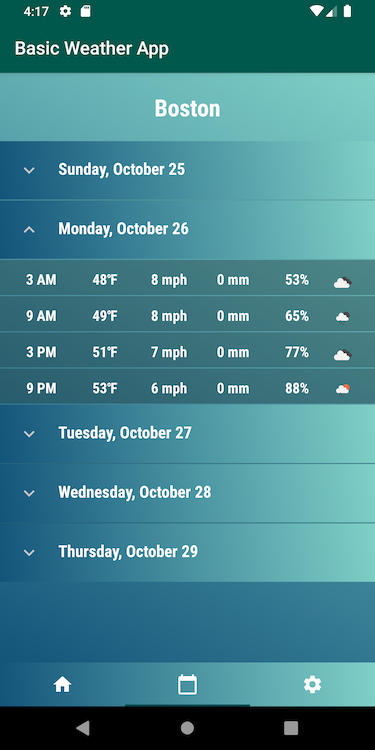
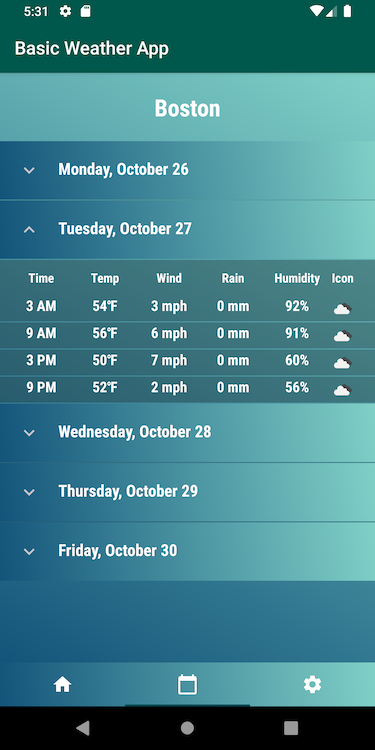
Added header row with labels for the expandable adapter

diff --git a/Android Weather App/app/src/main/java/com/example/basicweatherapp/adapters/ForecastDataAdapter.java b/Android Weather App/app/src/main/java/com/example/basicweatherapp/adapters/ForecastDataAdapter.java
@@ -106,26 +106,37 @@ public class ForecastDataAdapter extends BaseExpandableListAdapter {
             view = layoutInflater.inflate(R.layout.forecast_expanded_data, null);
         }
 
-        if (groupPosition > 0) {
-            hideLabels(view);
+        if (childPosition > 0) {
+            hideLabels(view, true);
+        } else {
+            hideLabels(view, false);
         }
         fillChildWithView(view, item);
         return view;
     }
 
-    private void hideLabels(View view) {
+    private void hideLabels(View view, boolean shouldHide) {
         TextView tv1 = view.findViewById(R.id.forecast_data_time_label);
         TextView tv2 = view.findViewById(R.id.temp_label);
         TextView tv3 = view.findViewById(R.id.wind_label);
         TextView tv4 = view.findViewById(R.id.rain_label);
         TextView tv5 = view.findViewById(R.id.humidity_label);
         TextView tv6 = view.findViewById(R.id.weather_icon_label);
-        tv1.setVisibility(View.GONE);
-        tv2.setVisibility(View.GONE);
-        tv3.setVisibility(View.GONE);
-        tv4.setVisibility(View.GONE);
-        tv5.setVisibility(View.GONE);
-        tv6.setVisibility(View.GONE);
+        if (shouldHide) {
+            tv1.setVisibility(View.GONE);
+            tv2.setVisibility(View.GONE);
+            tv3.setVisibility(View.GONE);
+            tv4.setVisibility(View.GONE);
+            tv5.setVisibility(View.GONE);
+            tv6.setVisibility(View.GONE);
+        } else {
+            tv1.setVisibility(View.VISIBLE);
+            tv2.setVisibility(View.VISIBLE);
+            tv3.setVisibility(View.VISIBLE);
+            tv4.setVisibility(View.VISIBLE);
+            tv5.setVisibility(View.VISIBLE);
+            tv6.setVisibility(View.VISIBLE);
+        }
     }
 
     @Override
